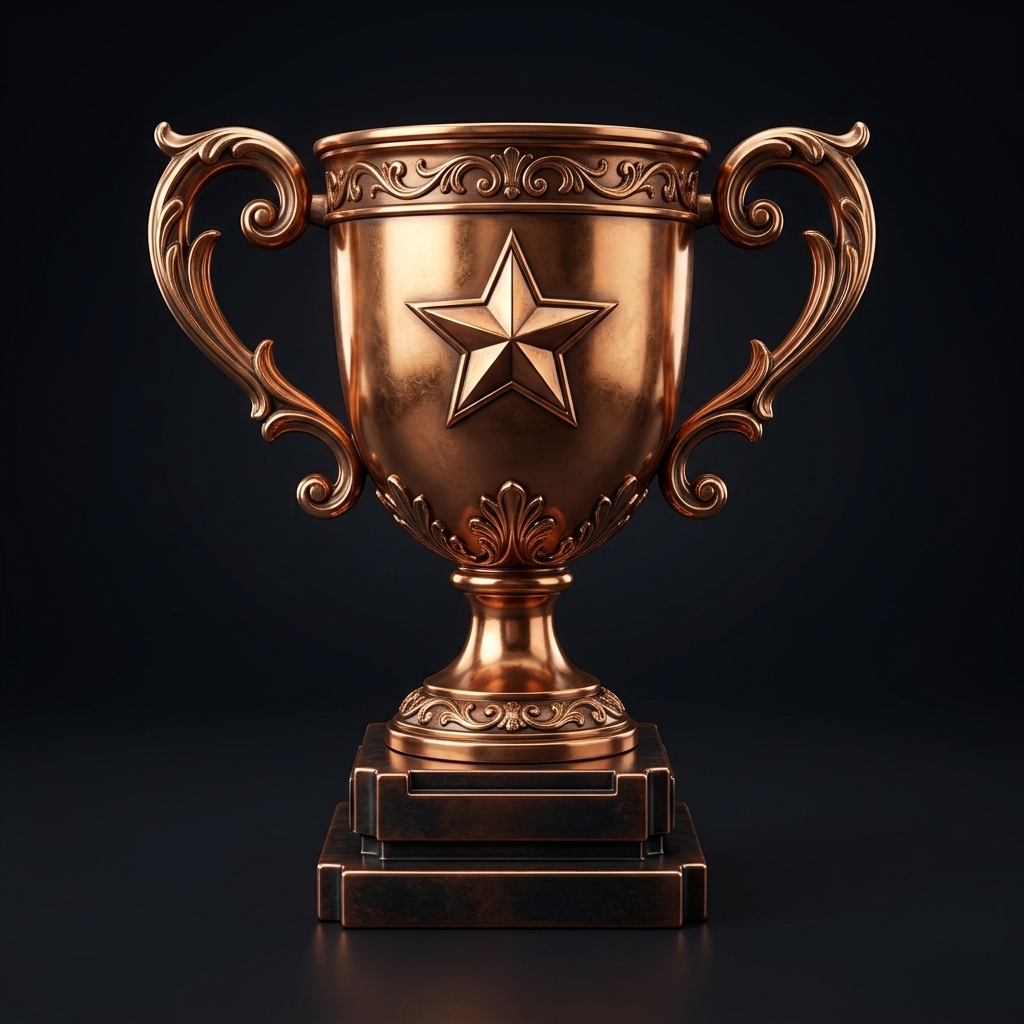
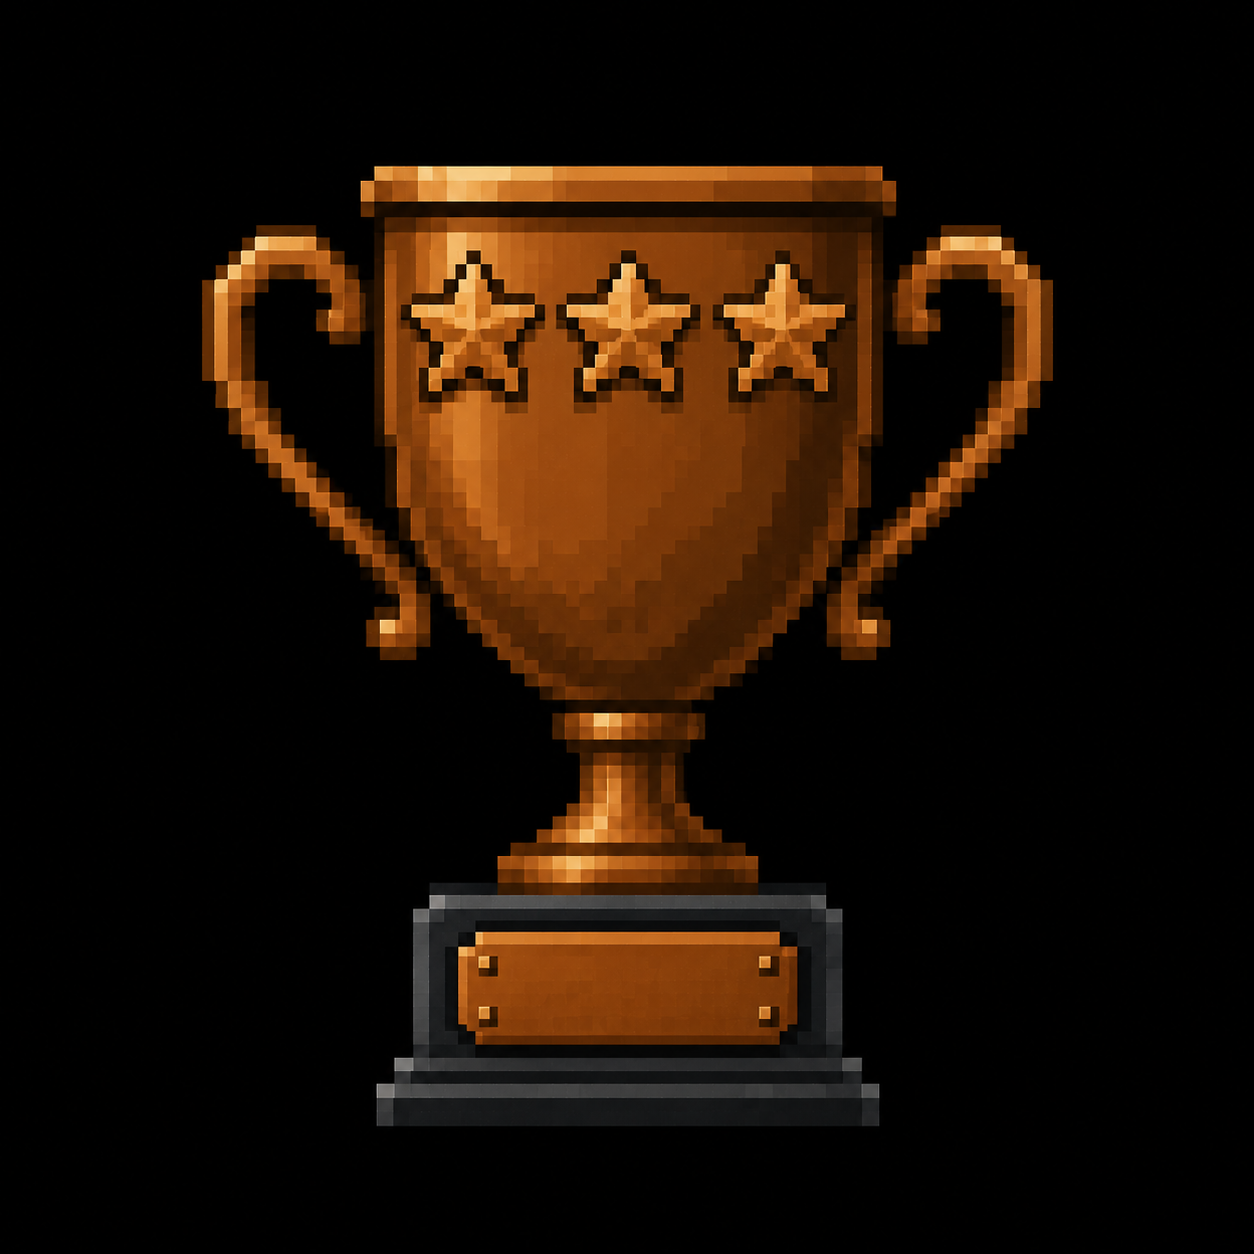
minor changes

diff --git a/client/components/PrizesSection.tsx b/client/components/PrizesSection.tsx
@@ -20,11 +20,11 @@ type Prize = {
 };
 
 const prizes: Prize[] = [
-  { rank: '2ND', label: 'HIGH SCORE', amount: '₹20,000', accent: '#D8E1F0', glow: 'rgba(216,225,240,0.52)', icon: 'trophy', art: '/prize-silver-trophy.png', className: 'silver-podium' },
-  { rank: '1ST', label: 'BOSS CLEAR', amount: '₹50,000', accent: '#FFD700', glow: 'rgba(255,215,0,0.58)', icon: 'crown', art: '/prize-gold-trophy.png', className: 'champion-podium' },
-  { rank: '3RD', label: 'BONUS STAGE', amount: '₹5,000', accent: '#C7854B', glow: 'rgba(199,133,75,0.48)', icon: 'trophy', art: '/prize-bronze-trophy.png', className: 'bronze-podium' },
-  { rank: '4TH', label: 'BONUS STAGE', amount: '₹5,000', accent: '#C7854B', glow: 'rgba(199,133,75,0.48)', icon: 'trophy', art: '/prize-bronze-trophy.png', className: 'bronze-podium' },
-  { rank: '5TH', label: 'BONUS STAGE', amount: '₹5,000', accent: '#C7854B', glow: 'rgba(199,133,75,0.48)', icon: 'trophy', art: '/prize-bronze-trophy.png', className: 'bronze-podium' },
+  { rank: '2ND', label: 'HIGH SCORE', amount: '20,000', accent: '#D8E1F0', glow: 'rgba(216,225,240,0.52)', icon: 'trophy', art: '/prize-silver-trophy.png', className: 'silver-podium' },
+  { rank: '1ST', label: 'BOSS CLEAR', amount: '50,000', accent: '#FFD700', glow: 'rgba(255,215,0,0.58)', icon: 'crown', art: '/prize-gold-trophy.png', className: 'champion-podium' },
+  { rank: '3RD', label: 'BONUS STAGE', amount: '5,000', accent: '#C7854B', glow: 'rgba(199,133,75,0.48)', icon: 'trophy', art: '/prize-bronze-trophy.png', className: 'bronze-podium' },
+  { rank: '4TH', label: 'BONUS STAGE', amount: '5,000', accent: '#C7854B', glow: 'rgba(199,133,75,0.48)', icon: 'trophy', art: '/prize-bronze-trophy.png', className: 'bronze-podium' },
+  { rank: '5TH', label: 'BONUS STAGE', amount: '5,000', accent: '#C7854B', glow: 'rgba(199,133,75,0.48)', icon: 'trophy', art: '/prize-bronze-trophy.png', className: 'bronze-podium' },
 ];
 
 function PrizeIcon({ type, color }: { type: Prize['icon']; color: string }) {
@@ -69,7 +69,7 @@ export default function PrizesSection() {
           transition={{ duration: 0.6, ease: [0.22, 1, 0.36, 1] }}
         >
           <span className="vault-kicker">TOTAL PRIZE POOL</span>
-          <strong>₹85,000</strong>
+          <strong><span className="rupee">₹</span>85,000</strong>
           <span className="vault-caption">Rewards unlocked for the top five teams</span>
           <div className="vault-status"><i /> LIVE REWARD BOARD</div>
         </motion.div>
@@ -82,7 +82,7 @@ export default function PrizesSection() {
           style={cardStyle(champion)}
           onClick={() => togglePrize(championIndex)}
           aria-expanded={selectedPrize === championIndex}
-          aria-label={`1ST position, ${champion.amount}. ${selectedPrize === championIndex ? 'Hide' : 'Show'} reward detail.`}
+          aria-label={`1ST position, ₹${champion.amount}. ${selectedPrize === championIndex ? 'Hide' : 'Show'} reward detail.`}
           initial={{ opacity: 0, y: 28 }}
           whileInView={{ opacity: 1, y: 0 }}
           viewport={{ once: true, amount: 0.18 }}
@@ -92,7 +92,7 @@ export default function PrizesSection() {
           <div className="champion-copy">
             <span className="reward-eyebrow"><Crown size={16} fill="currentColor" /> GRAND PRIZE</span>
             <span className="champion-rank">{champion.rank} / {champion.label}</span>
-            <strong>{champion.amount}</strong>
+            <strong><span className="rupee">₹</span>{champion.amount}</strong>
             <span className="reward-action">{selectedPrize === championIndex ? 'CLOSE DETAILS' : 'VIEW REWARD DETAILS'} <span aria-hidden="true">↗</span></span>
           </div>
           <div className="champion-art" aria-hidden="true">
@@ -123,14 +123,14 @@ export default function PrizesSection() {
                   transition={{ delay: 0.12 + index * 0.06, duration: 0.46, ease: [0.22, 1, 0.36, 1] }}
                   onClick={() => togglePrize(index)}
                   aria-expanded={expanded}
-                  aria-label={`${prize.rank} position, ${prize.amount}. ${expanded ? 'Hide' : 'Show'} reward detail.`}
+                  aria-label={`${prize.rank} position, ₹${prize.amount}. ${expanded ? 'Hide' : 'Show'} reward detail.`}
                 >
                   <span className="reward-card-top"><span>{prize.rank}</span><span>{expanded ? 'CLOSE' : 'DETAILS'}</span></span>
                   <div className="reward-card-icon">
                     {prize.art ? <img src={prize.art} alt="" draggable={false} /> : <PrizeIcon type={prize.icon} color={prize.accent} />}
                   </div>
                   <span className="reward-label">{prize.label}</span>
-                  <strong>{prize.amount}</strong>
+                  <strong><span className="rupee">₹</span>{prize.amount}</strong>
                   <motion.span
                     className="reward-detail"
                     initial={false}

diff --git a/client/components/sections/AboutSection.tsx b/client/components/sections/AboutSection.tsx
@@ -61,7 +61,7 @@ export default function AboutSection() {
               </p>
 
               <p className="text-gray-400">
-                Fuel your passion, collaborate with top talent across India, and present your creation before industry leaders to claim your share of the <strong className="text-[#FFD700]">₹85,000 jackpot</strong>. Insert your coin, assemble your squad, and press start!
+                Fuel your passion, collaborate with top talent across India, and present your creation before industry leaders to claim your share of the <strong className="text-[#FFD700]"><span className="rupee">₹</span>85,000 jackpot</strong>. Insert your coin, assemble your squad, and press start!
               </p>
             </div>
           </div>

diff --git a/client/components/AboutSection.tsx b/client/components/AboutSection.tsx
@@ -61,7 +61,7 @@ export default function AboutSection() {
             </p>
 
             <p className="text-gray-400">
-              Fuel your passion, collaborate with top talent across India, and present your creation before industry leaders to claim your share of the <strong className="text-[#FFD700]">₹85,000 jackpot</strong>. Insert your coin, assemble your squad, and press start!
+              Fuel your passion, collaborate with top talent across India, and present your creation before industry leaders to claim your share of the <strong className="text-[#FFD700]"><span className="rupee">₹</span>85,000 jackpot</strong>. Insert your coin, assemble your squad, and press start!
             </p>
           </motion.div>
 

diff --git a/client/components/StatsStrip.tsx b/client/components/StatsStrip.tsx
@@ -65,7 +65,7 @@ export default function StatsStrip() {
                 <div className="flex items-center justify-center gap-3 mb-3">
                   <span className="text-3xl">💰</span>
                   <div className="font-pixel text-4xl sm:text-5xl text-[#FFD700] tracking-tight drop-shadow-[0_0_12px_rgba(255,215,0,0.5)]">
-                    ₹85,000
+                    <span className="rupee">₹</span>85,000
                   </div>
                 </div>
                 <div className="font-pixel text-xs text-[#00F0FF] tracking-[0.2em] uppercase">

diff --git a/client/app/globals.css b/client/app/globals.css
@@ -739,3 +739,15 @@ body {
     grid-template-columns: 1fr;
   }
 }
+
+/* ── RUPEE SYMBOL FIX: align ₹ vertically with pixel-font numbers ── */
+.rupee {
+  font-family: system-ui, -apple-system, "Segoe UI", sans-serif;
+  display: inline-block;
+  vertical-align: middle;
+  font-size: 0.82em;
+  line-height: 1;
+  margin-right: 0.04em;
+  position: relative;
+  top: -0.05em;
+}
